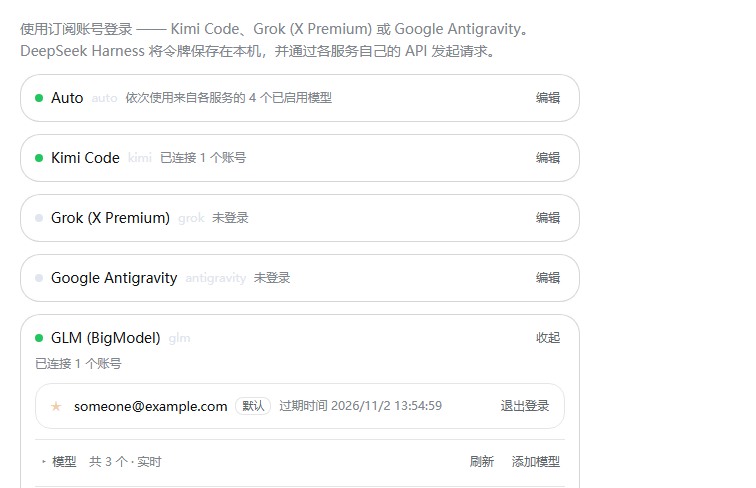
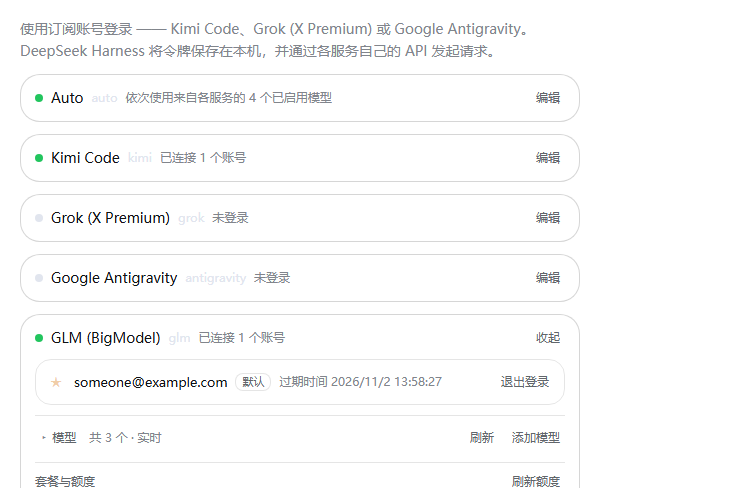
Keep the state line in the header when a card opens
The sentence was rendered twice - once in the folded header, once as the body's
first line - so expanding a card made it appear to drop a line, which is the one
thing on screen the reader watches while clicking. It now lives in the header in
both states and the body's duplicate is gone.

0.2.2.

Changed region(s): [[0.0304, 0.707, 0.7606, 1.0], [0.2434, 0.6762, 0.3955, 0.707]]

diff --git a/src/client/SubscriptionsSection.tsx b/src/client/SubscriptionsSection.tsx
@@ -630,7 +630,13 @@ function ProviderCard(props: {
         <span style={{ ...styles.dot, background: dotColor(status) }} aria-hidden="true" />
         <span style={styles.name}>{status.displayName}</span>
         <span style={styles.providerId}>{status.provider}</span>
-        {!cardOpen && <span style={styles.cardSummary}>{summaryLine}</span>}
+        {/*
+          The state stays in the header whether the card is open or folded. The
+          body used to repeat the same sentence as its first line, so expanding a
+          card made that text appear to jump down a line — the one thing the reader
+          is watching.
+        */}
+        <span style={styles.cardSummary}>{summaryLine}</span>
         <button
           type="button"
           className="dsh-subscription-quiet"
@@ -646,17 +652,6 @@ function ProviderCard(props: {
         id={`dsh-subscription-card-${status.provider}`}
         style={cardOpen ? styles.cardBody : { ...styles.cardBody, display: 'none' }}
       >
-      <p style={styles.statusLine}>
-        {!connectable
-          // `auto` has no account: it stands in for the models the other routes
-          // signed in for, so it counts the candidates instead.
-          ? t('statusAuto', { count: models.filter((model) => model.visible).length })
-          : busy
-            ? t('statusBusy')
-            : status.loggedIn
-              ? t('statusConnected', { count: accounts.length })
-              : t('statusSignedOut')}
-      </p>
       {connectable && !status.loggedIn && !busy && <p style={styles.statusLine}>{t('statusSignIn')}</p>}
       {status.lastError !== undefined && (
         <p className="dsh-subscription-error">{t('lastError', { message: status.lastError })}</p>

diff --git a/README.md b/README.md
@@ -178,7 +178,7 @@ The CLI forwards its arguments to pnpm, so a pinned version, a git URL and a loc
 path are all spelled the same way:
 
 ```sh
-dsh plugin --profile web add dsh-plugin-subscription-oauth@0.2.1
+dsh plugin --profile web add dsh-plugin-subscription-oauth@0.2.2
 dsh plugin --profile web add github:EricFL1998/dsh-subscription-oauth
 dsh plugin --profile web add /path/to/dsh-plugin-subscription-oauth
 ```
